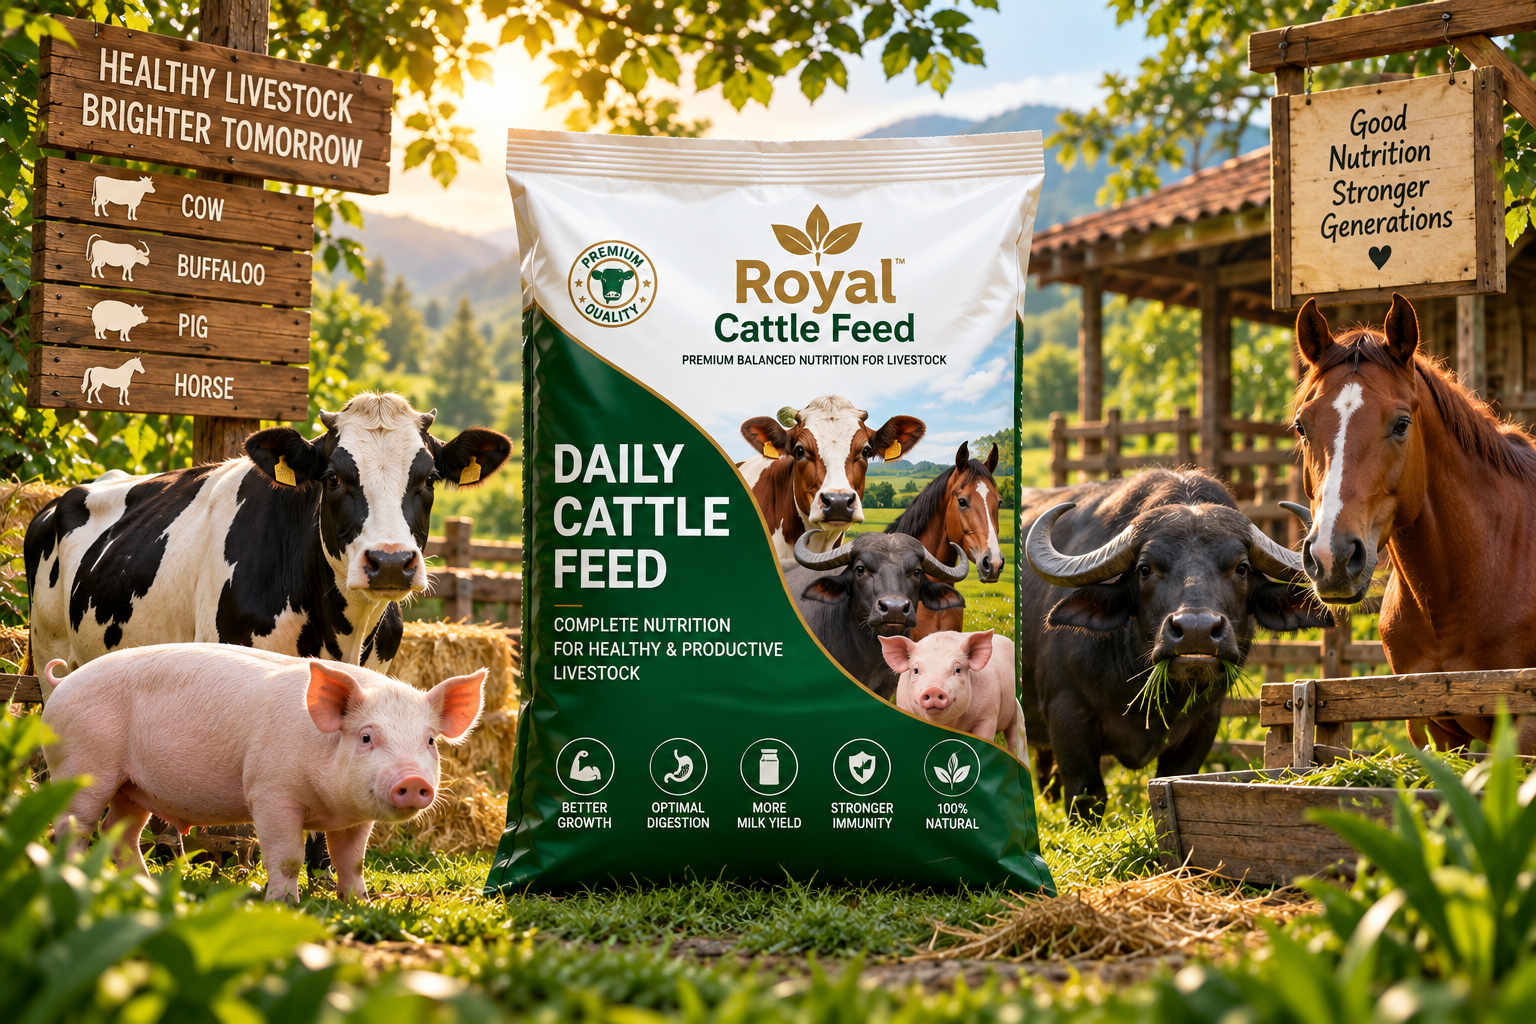
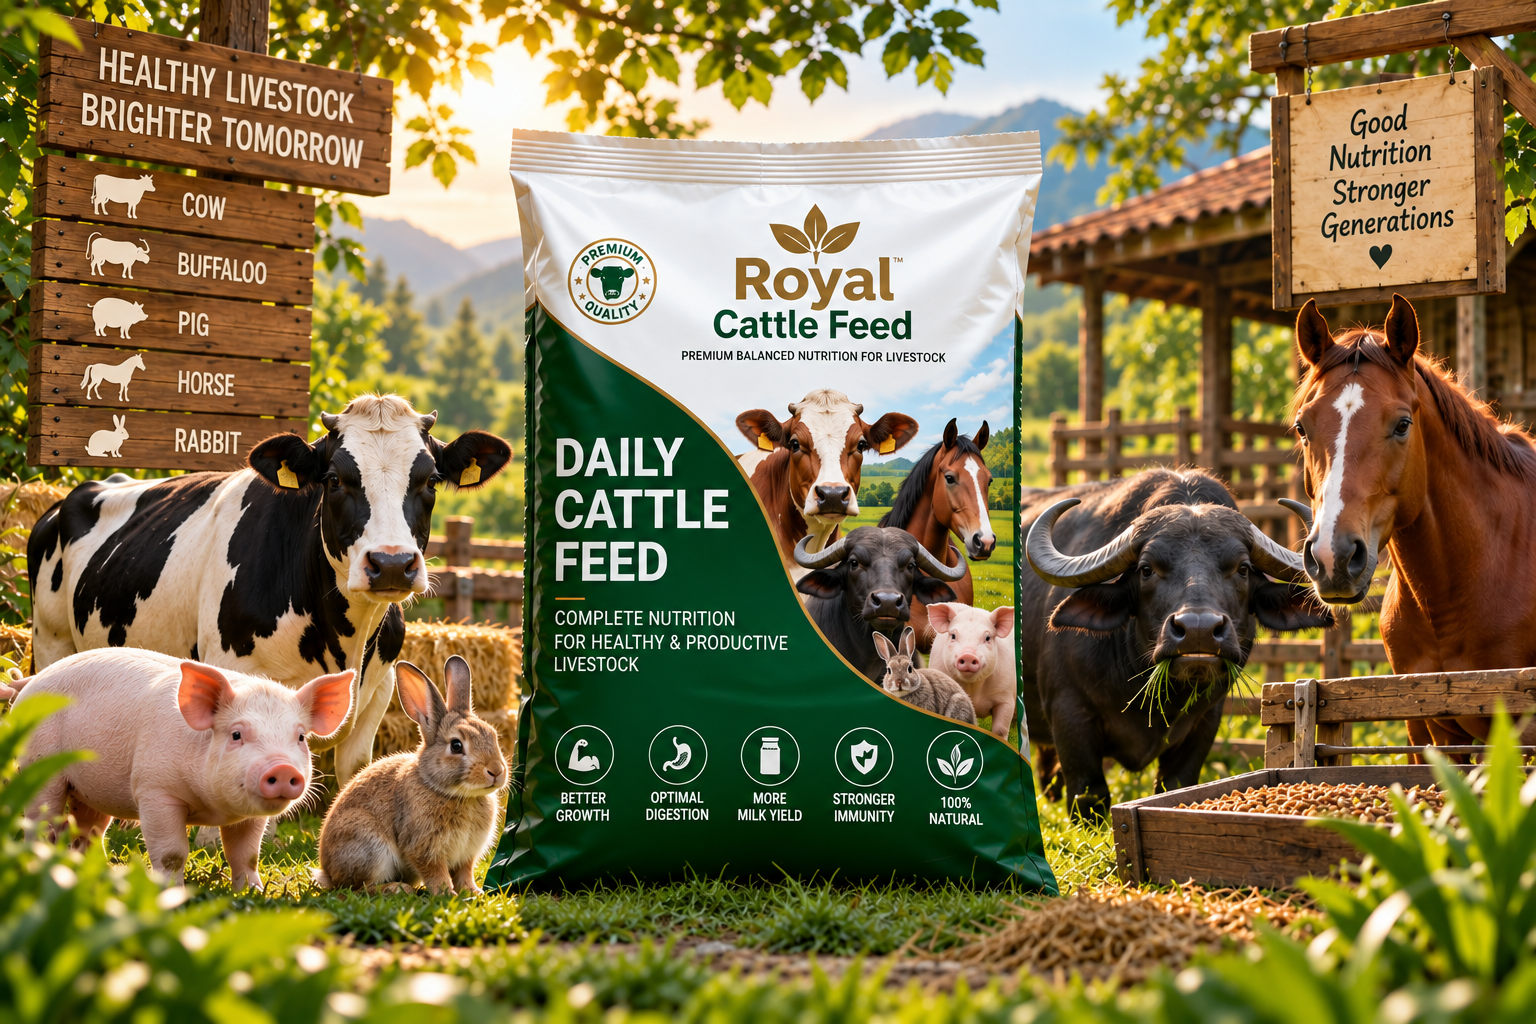
feat: update social media links, update cattle block tags, and rename description to price in admin panel

diff --git a/frontend/src/components/ProductCard.tsx b/frontend/src/components/ProductCard.tsx
@@ -17,6 +17,7 @@ interface Product {
   variants: number[];
   in_stock: boolean; // Note: backend returns in_stock
   description: string;
+  product_detail?: string;
 }
 
 interface ProductCardProps {
@@ -40,85 +41,162 @@ const ProductCard: React.FC<ProductCardProps> = ({ product }) => {
 
 
 
+  const [isModalOpen, setIsModalOpen] = useState(false);
+
   return (
-    <div 
-      className="group bg-white rounded-xl sm:rounded-2xl overflow-hidden hover:shadow-md transition-all duration-500 ease-out flex flex-col"
-      onMouseEnter={() => setIsHovered(true)}
-      onMouseLeave={() => setIsHovered(false)}
-    >
-      {/* Image & Badges */}
-      <div className="relative overflow-hidden bg-white m-2 sm:m-3 rounded-lg sm:rounded-xl">
-        <Link to={`/shop?category=${encodeURIComponent(product.category)}`} className="block relative aspect-square cursor-pointer">
-          <img 
-            src={product.image} 
-            alt={product.name}
-            className={cn(
-              "absolute inset-0 w-full h-full object-contain sepia-[0.05] contrast-[0.95] transition-transform duration-700 ease-out",
-              isHovered && "scale-105"
+    <>
+      <div 
+        className="group bg-white rounded-xl sm:rounded-2xl overflow-hidden hover:shadow-md transition-all duration-500 ease-out flex flex-col"
+        onMouseEnter={() => setIsHovered(true)}
+        onMouseLeave={() => setIsHovered(false)}
+      >
+        {/* Image & Badges */}
+        <div className="relative overflow-hidden bg-white m-2 sm:m-3 rounded-lg sm:rounded-xl">
+          <Link to={`/shop?category=${encodeURIComponent(product.category)}`} className="block relative aspect-square cursor-pointer">
+            <img 
+              src={product.image} 
+              alt={product.name}
+              className={cn(
+                "absolute inset-0 w-full h-full object-contain sepia-[0.05] contrast-[0.95] transition-transform duration-700 ease-out",
+                isHovered && "scale-105"
+              )}
+            />
+          </Link>
+          
+          {/* Badges */}
+          <div className="absolute top-2 left-2 sm:top-3 sm:left-3 flex flex-col gap-1 sm:gap-2">
+            {product.discount > 0 && (
+              <span className="bg-[var(--color-wabi-gold)] text-white text-[9px] sm:text-[10px] uppercase tracking-widest font-bold px-2 py-1 sm:px-3 sm:py-1.5 rounded-full shadow-sm">
+                {product.discount}% OFF
+              </span>
             )}
-          />
-        </Link>
-        
-        {/* Badges */}
-        <div className="absolute top-2 left-2 sm:top-3 sm:left-3 flex flex-col gap-1 sm:gap-2">
-          {product.discount > 0 && (
-            <span className="bg-[var(--color-wabi-gold)] text-white text-[9px] sm:text-[10px] uppercase tracking-widest font-bold px-2 py-1 sm:px-3 sm:py-1.5 rounded-full shadow-sm">
-              {product.discount}% OFF
-            </span>
+            {product.tags && product.tags.map((tag: string) => (
+              <span key={tag} className={cn(
+                "text-white text-[7px] sm:text-[8px] uppercase tracking-wider font-extrabold px-1.5 py-0.5 sm:px-2 sm:py-1 rounded-sm shadow-sm opacity-90",
+                tag === "Royal Uzhavan Favourites" ? "bg-[var(--color-wabi-green)]" : "bg-[var(--color-wabi-earth)]"
+              )}>
+                {tag}
+              </span>
+            ))}
+          </div>
+
+          {!product.in_stock && (
+            <div className="absolute inset-0 bg-white/60 backdrop-blur-[2px] flex items-center justify-center pointer-events-none">
+              <span className="bg-gray-900 text-white font-bold px-2 py-1 sm:px-4 sm:py-2 rounded shadow-lg uppercase tracking-wider text-[11px] sm:text-sm">
+                Out of Stock
+              </span>
+            </div>
           )}
-          {product.tags && product.tags.map((tag: string) => (
-            <span key={tag} className={cn(
-              "text-white text-[7px] sm:text-[8px] uppercase tracking-wider font-extrabold px-1.5 py-0.5 sm:px-2 sm:py-1 rounded-sm shadow-sm opacity-90",
-              tag === "Royal Uzhavan Favourites" ? "bg-[var(--color-wabi-green)]" : "bg-[var(--color-wabi-earth)]"
-            )}>
-              {tag}
-            </span>
-          ))}
         </div>
 
+        {/* Content */}
+        <div className="px-3 pb-3 sm:px-4 sm:pb-4 md:px-5 md:pb-5 flex flex-col flex-1">
 
+          {/* Title & Description */}
+          <Link to={`/shop?category=${encodeURIComponent(product.category)}`} className="block mb-2 sm:mb-3 cursor-pointer">
+            <h3 className="font-bold text-[14px] sm:text-base text-gray-900 group-hover:text-[var(--color-wabi-green)] transition-colors leading-tight line-clamp-2">
+              {product.name}
+            </h3>
+            {product.name_tamil && (
+              <span className="text-[11px] sm:text-[12px] font-extrabold text-[#0B4D26] bg-[#86B841]/20 px-1.5 py-0.5 sm:px-2 inline-block rounded-md mt-1.5">{product.name_tamil}</span>
+            )}
+            {product.description && (
+              <p className="text-[var(--color-wabi-green)] font-bold text-[11px] sm:text-[13px] mt-1.5 sm:mt-2">
+                {product.description}
+              </p>
+            )}
+          </Link>
 
-        {!product.in_stock && (
-          <div className="absolute inset-0 bg-white/60 backdrop-blur-[2px] flex items-center justify-center pointer-events-none">
-            <span className="bg-gray-900 text-white font-bold px-2 py-1 sm:px-4 sm:py-2 rounded shadow-lg uppercase tracking-wider text-[11px] sm:text-sm">
-              Out of Stock
-            </span>
-          </div>
-        )}
-      </div>
-
-      {/* Content */}
-      <div className="px-3 pb-3 sm:px-4 sm:pb-4 md:px-5 md:pb-5 flex flex-col flex-1">
-
-        {/* Title */}
-        <Link to={`/shop?category=${encodeURIComponent(product.category)}`} className="block mb-2 sm:mb-3 cursor-pointer">
-          <h3 className="font-bold text-[14px] sm:text-base text-gray-900 group-hover:text-[var(--color-wabi-green)] transition-colors leading-tight line-clamp-2">
-            {product.name}
-          </h3>
-          {product.name_tamil && (
-            <span className="text-[11px] sm:text-[12px] font-extrabold text-[#0B4D26] bg-[#86B841]/20 px-1.5 py-0.5 sm:px-2 inline-block rounded-md mt-1.5">{product.name_tamil}</span>
-          )}
-        </Link>
-
-        <div className="mt-auto">
-          {/* Action */}
-          <div className="mt-2 sm:mt-3 flex flex-col sm:flex-row items-stretch justify-between gap-1.5 sm:gap-2">
-            <button
-              onClick={handleCallEnquiry}
-              className="flex-1 flex justify-center items-center gap-1 sm:gap-1.5 py-2 sm:py-2.5 px-1 sm:px-2 rounded-md sm:rounded-lg font-bold transition-all duration-300 bg-[var(--color-wabi-green)] hover:bg-[#1a3818] text-white shadow-sm hover:shadow-md text-[10px] sm:text-xs uppercase tracking-wider"
-            >
-              <Phone className="w-3 h-3 sm:w-3.5 sm:h-3.5" /> Call
-            </button>
-            <button
-              onClick={handleWhatsAppEnquiry}
-              className="flex-1 flex justify-center items-center gap-1 sm:gap-1.5 py-2 sm:py-2.5 px-1 sm:px-2 rounded-md sm:rounded-lg font-bold transition-all duration-300 bg-[#25D366] hover:bg-[#128C7E] text-white shadow-sm hover:shadow-md text-[10px] sm:text-xs uppercase tracking-wider"
-            >
-              <MessageCircle className="w-3.5 h-3.5 sm:w-4 sm:h-4" /> Enquire
-            </button>
+          <div className="mt-auto">
+            {/* Action */}
+            <div className="mt-2 sm:mt-3 flex flex-col gap-1.5 sm:gap-2">
+              <button
+                onClick={(e) => { e.preventDefault(); setIsModalOpen(true); }}
+                className="w-full flex justify-center items-center py-2 sm:py-2.5 rounded-md sm:rounded-lg font-bold transition-all duration-300 bg-gray-100 hover:bg-gray-200 text-gray-800 shadow-sm hover:shadow-md text-[10px] sm:text-xs uppercase tracking-wider"
+              >
+                Detail
+              </button>
+              <div className="flex flex-row items-stretch justify-between gap-1.5 sm:gap-2">
+                <button
+                  onClick={handleCallEnquiry}
+                  className="flex-1 flex justify-center items-center gap-1 sm:gap-1.5 py-2 sm:py-2.5 px-1 sm:px-2 rounded-md sm:rounded-lg font-bold transition-all duration-300 bg-[var(--color-wabi-green)] hover:bg-[#1a3818] text-white shadow-sm hover:shadow-md text-[10px] sm:text-xs uppercase tracking-wider"
+                >
+                  <Phone className="w-3 h-3 sm:w-3.5 sm:h-3.5" /> Call
+                </button>
+                <button
+                  onClick={handleWhatsAppEnquiry}
+                  className="flex-1 flex justify-center items-center gap-1 sm:gap-1.5 py-2 sm:py-2.5 px-1 sm:px-2 rounded-md sm:rounded-lg font-bold transition-all duration-300 bg-[#25D366] hover:bg-[#128C7E] text-white shadow-sm hover:shadow-md text-[10px] sm:text-xs uppercase tracking-wider"
+                >
+                  <MessageCircle className="w-3.5 h-3.5 sm:w-4 sm:h-4" /> Enquire
+                </button>
+              </div>
+            </div>
           </div>
         </div>
       </div>
-    </div>
+
+      {/* Product Detail Modal */}
+      {isModalOpen && (
+        <div className="fixed inset-0 z-[100] flex items-center justify-center p-4 bg-black/60 backdrop-blur-sm">
+          <div 
+            className="bg-white rounded-2xl sm:rounded-3xl shadow-2xl w-full max-w-2xl max-h-[90vh] overflow-y-auto flex flex-col md:flex-row relative animate-in fade-in zoom-in-95 duration-200"
+            onClick={(e) => e.stopPropagation()}
+          >
+            <button 
+              onClick={() => setIsModalOpen(false)}
+              className="absolute top-4 right-4 z-10 w-8 h-8 flex items-center justify-center bg-gray-100 hover:bg-gray-200 rounded-full text-gray-600 transition-colors"
+            >
+              <svg xmlns="http://www.w3.org/2000/svg" width="18" height="18" viewBox="0 0 24 24" fill="none" stroke="currentColor" strokeWidth="2" strokeLinecap="round" strokeLinejoin="round"><line x1="18" y1="6" x2="6" y2="18"></line><line x1="6" y1="6" x2="18" y2="18"></line></svg>
+            </button>
+            
+            {/* Modal Image */}
+            <div className="w-full md:w-1/2 p-6 flex items-center justify-center bg-gray-50 md:rounded-l-2xl sm:rounded-t-2xl md:rounded-tr-none">
+              <img src={product.image} alt={product.name} className="w-full h-auto max-h-[300px] object-contain drop-shadow-lg mix-blend-multiply" />
+            </div>
+            
+            {/* Modal Content */}
+            <div className="w-full md:w-1/2 p-6 sm:p-8 flex flex-col">
+              <span className="text-[10px] sm:text-xs font-bold uppercase tracking-widest text-[var(--color-wabi-green)] mb-2">{product.category}</span>
+              <h2 className="text-xl sm:text-2xl font-bold text-gray-900 mb-2 leading-tight">{product.name}</h2>
+              {product.name_tamil && (
+                <span className="text-xs sm:text-sm font-extrabold text-[#0B4D26] bg-[#86B841]/20 px-2.5 py-1 inline-block rounded-md mb-4 w-fit">{product.name_tamil}</span>
+              )}
+              
+              <div className="h-px w-full bg-gray-100 my-4"></div>
+              
+              {product.description && (
+                <div className="mb-6">
+                  <h4 className="text-sm font-bold text-gray-900 mb-2">Price</h4>
+                  <p className="text-sm font-bold text-[var(--color-wabi-green)] leading-relaxed whitespace-pre-wrap">{product.description}</p>
+                </div>
+              )}
+
+              {product.product_detail && (
+                <div className="mb-6">
+                  <h4 className="text-sm font-bold text-gray-900 mb-2">Product Detail</h4>
+                  <p className="text-sm text-gray-600 leading-relaxed whitespace-pre-wrap">{product.product_detail}</p>
+                </div>
+              )}
+
+              <div className="mt-auto pt-4 flex flex-col gap-2.5">
+                <button
+                  onClick={handleCallEnquiry}
+                  className="w-full flex justify-center items-center gap-2 py-3 px-4 rounded-xl font-bold transition-all duration-300 bg-[var(--color-wabi-green)] hover:bg-[#1a3818] text-white shadow-md hover:shadow-lg text-sm uppercase tracking-wider"
+                >
+                  <Phone className="w-4 h-4" /> Call Now
+                </button>
+                <button
+                  onClick={handleWhatsAppEnquiry}
+                  className="w-full flex justify-center items-center gap-2 py-3 px-4 rounded-xl font-bold transition-all duration-300 bg-[#25D366] hover:bg-[#128C7E] text-white shadow-md hover:shadow-lg text-sm uppercase tracking-wider"
+                >
+                  <MessageCircle className="w-4 h-4" /> WhatsApp Enquire
+                </button>
+              </div>
+            </div>
+          </div>
+        </div>
+      )}
+    </>
   );
 };
 

diff --git a/frontend/src/pages/Home.tsx b/frontend/src/pages/Home.tsx
@@ -1,7 +1,7 @@
 import React, { useState, useEffect } from 'react';
 import { Link, useNavigate } from 'react-router-dom';
 import { localApi } from '../services/localApi';
-import { ShieldCheck, Leaf, Truck, Sprout, ArrowRight, Wheat } from 'lucide-react';
+import { ShieldCheck, Leaf, Truck, Sprout, ArrowRight, Wheat, Instagram, Youtube, Facebook } from 'lucide-react';
 import { motion } from 'motion/react';
 import ProductCard from '../components/ProductCard';
 import Smooth3DSlideshow from '../components/Smooth3DSlideshow';
@@ -193,6 +193,35 @@ export default function Home() {
 
         <div className="container mx-auto px-4 md:px-12 relative z-10 flex flex-col md:flex-row items-center">
           <div className="max-w-2xl w-full -mt-16 md:-mt-28">
+            <div className="flex gap-4 mb-6 pl-4">
+              <a
+                href={siteSettings?.instagram_link || "https://www.instagram.com/uzhavan_birds_food_accessories"}
+                target="_blank"
+                rel="noopener noreferrer"
+                aria-label="Instagram"
+                className="w-10 h-10 rounded-full bg-white shadow-md flex items-center justify-center text-[var(--color-wabi-green)] hover:bg-[var(--color-wabi-green)] hover:text-white transition-all hover:scale-110"
+              >
+                <Instagram className="w-5 h-5" />
+              </a>
+              <a
+                href={siteSettings?.youtube_link || "https://youtube.com/@mybusiness469?si=g8EgjTnVOXcI1YTD"}
+                target="_blank"
+                rel="noopener noreferrer"
+                aria-label="YouTube"
+                className="w-10 h-10 rounded-full bg-white shadow-md flex items-center justify-center text-[var(--color-wabi-green)] hover:bg-[var(--color-wabi-green)] hover:text-white transition-all hover:scale-110"
+              >
+                <Youtube className="w-5 h-5" />
+              </a>
+              <a
+                href={siteSettings?.facebook_link || "https://www.facebook.com/"}
+                target="_blank"
+                rel="noopener noreferrer"
+                aria-label="Facebook"
+                className="w-10 h-10 rounded-full bg-white shadow-md flex items-center justify-center text-[var(--color-wabi-green)] hover:bg-[var(--color-wabi-green)] hover:text-white transition-all hover:scale-110"
+              >
+                <Facebook className="w-5 h-5" />
+              </a>
+            </div>
             <span className="text-[var(--color-wabi-green)] font-bold tracking-[0.2em] text-xs uppercase mb-6 block border-l-2 border-[var(--color-wabi-gold)] pl-4">ROYAL UZHAVAN — ANIMAL NUTRITION</span>
             <h1 className="text-[var(--color-wabi-green)] text-5xl md:text-7xl lg:text-8xl font-serif leading-[1.05] mb-6">
               Quality Feed,<br />Healthy <span className="italic text-[var(--color-wabi-earth)]">Animals.</span>
@@ -308,13 +337,13 @@ export default function Home() {
                 <div className="relative h-64 sm:h-72 lg:h-80 overflow-hidden">
                   <img
                     src="/images/cattle&animals.png"
-                    alt="Cattle & Animals — Cow, Pig, Horse & Buffalo"
+                    alt="Cattle & Animals — Cow, Pig, Horse, Buffalo & Rabbit"
                     className="w-full h-full object-cover group-hover:scale-110 transition-transform duration-700 ease-out"
                   />
                   <div className="absolute inset-0 bg-gradient-to-t from-black/50 via-transparent to-transparent"></div>
                   {/* Tag */}
                   <div className="absolute bottom-5 left-5 flex flex-wrap gap-1.5">
-                    {['Cow', 'Pig', 'Horse', 'Buffalo'].map((animal) => (
+                    {['Cow', 'Pig', 'Horse', 'Buffalo', 'Rabbit'].map((animal) => (
                       <span key={animal} className="bg-white/90 backdrop-blur-md text-[var(--color-wabi-green)] text-[9px] font-bold uppercase tracking-widest px-3 py-1 rounded-full shadow-sm">
                         {animal}
                       </span>

diff --git a/frontend/src/pages/AdminDashboard.tsx b/frontend/src/pages/AdminDashboard.tsx
@@ -452,6 +452,7 @@ export default function AdminDashboard() {
       const newSettings = await localApi.updateSettings({
         whatsapp_link: formData.get('whatsapp_link'),
         instagram_link: formData.get('instagram_link'),
+        facebook_link: formData.get('facebook_link'),
         youtube_link: formData.get('youtube_link'),
         contact_address: formData.get('contact_address'),
         contact_phone: formData.get('contact_phone'),
@@ -771,6 +772,16 @@ export default function AdminDashboard() {
                           />
                         </div>
                         <div>
+                          <label className="block text-sm font-bold text-gray-700 mb-2">Facebook Link</label>
+                          <input 
+                            required 
+                            name="facebook_link" 
+                            defaultValue={siteSettings?.facebook_link || ''} 
+                            placeholder="https://facebook.com/..." 
+                            className="w-full px-4 py-3 border rounded-lg focus:ring-[#0B4D26] focus:border-[#0B4D26]" 
+                          />
+                        </div>
+                        <div>
                           <label className="block text-sm font-bold text-gray-700 mb-2">YouTube Link</label>
                           <input 
                             required 
@@ -923,9 +934,14 @@ export default function AdminDashboard() {
                   )}
                 </div>
 
+                <div className="md:col-span-1">
+                  <label className="block text-sm font-bold text-gray-700 mb-2">Price</label>
+                  <input type="text" name="description" defaultValue={editingProduct?.description || ''} className="w-full px-4 py-2 border rounded-lg focus:ring-[#0B4D26] focus:border-[#0B4D26]" placeholder="e.g. ₹1000" />
+                </div>
+
                 <div className="md:col-span-2">
-                  <label className="block text-sm font-bold text-gray-700 mb-2">Description</label>
-                  <textarea name="description" defaultValue={editingProduct?.description || ''} rows={4} className="w-full px-4 py-2 border rounded-lg focus:ring-[#0B4D26] focus:border-[#0B4D26]" />
+                  <label className="block text-sm font-bold text-gray-700 mb-2">Product Detail</label>
+                  <textarea name="product_detail" defaultValue={editingProduct?.product_detail || ''} rows={4} className="w-full px-4 py-2 border rounded-lg focus:ring-[#0B4D26] focus:border-[#0B4D26]" placeholder="Detailed product specifications or information..." />
                 </div>
                 
                 <div className="md:col-span-2 flex items-center gap-3 bg-gray-50 p-4 rounded-lg border border-gray-200">

diff --git a/frontend/src/components/Footer.tsx b/frontend/src/components/Footer.tsx
@@ -11,6 +11,7 @@ import {
   ShieldCheck,
   Leaf,
   Sprout,
+  Facebook,
 } from 'lucide-react';
 
 export default function Footer() {
@@ -69,6 +70,16 @@ export default function Footer() {
                 className="w-10 h-10 rounded-full bg-[var(--color-wabi-earth)]/10 flex items-center justify-center text-[var(--color-wabi-green)] hover:bg-[var(--color-wabi-green)] hover:text-white transition-colors shrink-0"
               >
                 <Youtube className="w-4 h-4" />
+              </a>
+
+              <a
+                href={settings?.facebook_link || "https://www.facebook.com/"}
+                target="_blank"
+                rel="noopener noreferrer"
+                aria-label="Facebook"
+                className="w-10 h-10 rounded-full bg-[var(--color-wabi-earth)]/10 flex items-center justify-center text-[var(--color-wabi-green)] hover:bg-[var(--color-wabi-green)] hover:text-white transition-colors shrink-0"
+              >
+                <Facebook className="w-4 h-4" />
               </a>
             </div>
           </div>

diff --git a/frontend/src/services/localApi.ts b/frontend/src/services/localApi.ts
@@ -63,6 +63,7 @@ const getSettings = () => {
   return settings ? JSON.parse(settings) : { 
     whatsapp_link: 'https://chat.whatsapp.com/G5g2mJgAWhd6P08u1q0Z3r',
     instagram_link: 'https://www.instagram.com/uzhavan_birds_food_accessories',
+    facebook_link: 'https://www.facebook.com/',
     youtube_link: 'https://youtube.com/@mybusiness469?si=g8EgjTnVOXcI1YTD',
     contact_address: '2/11/9, Asaarivilai, Saral post,\nKanniyakumari District,\nTamil Nadu - 629203',
     contact_phone: '+91 80-72864890',
